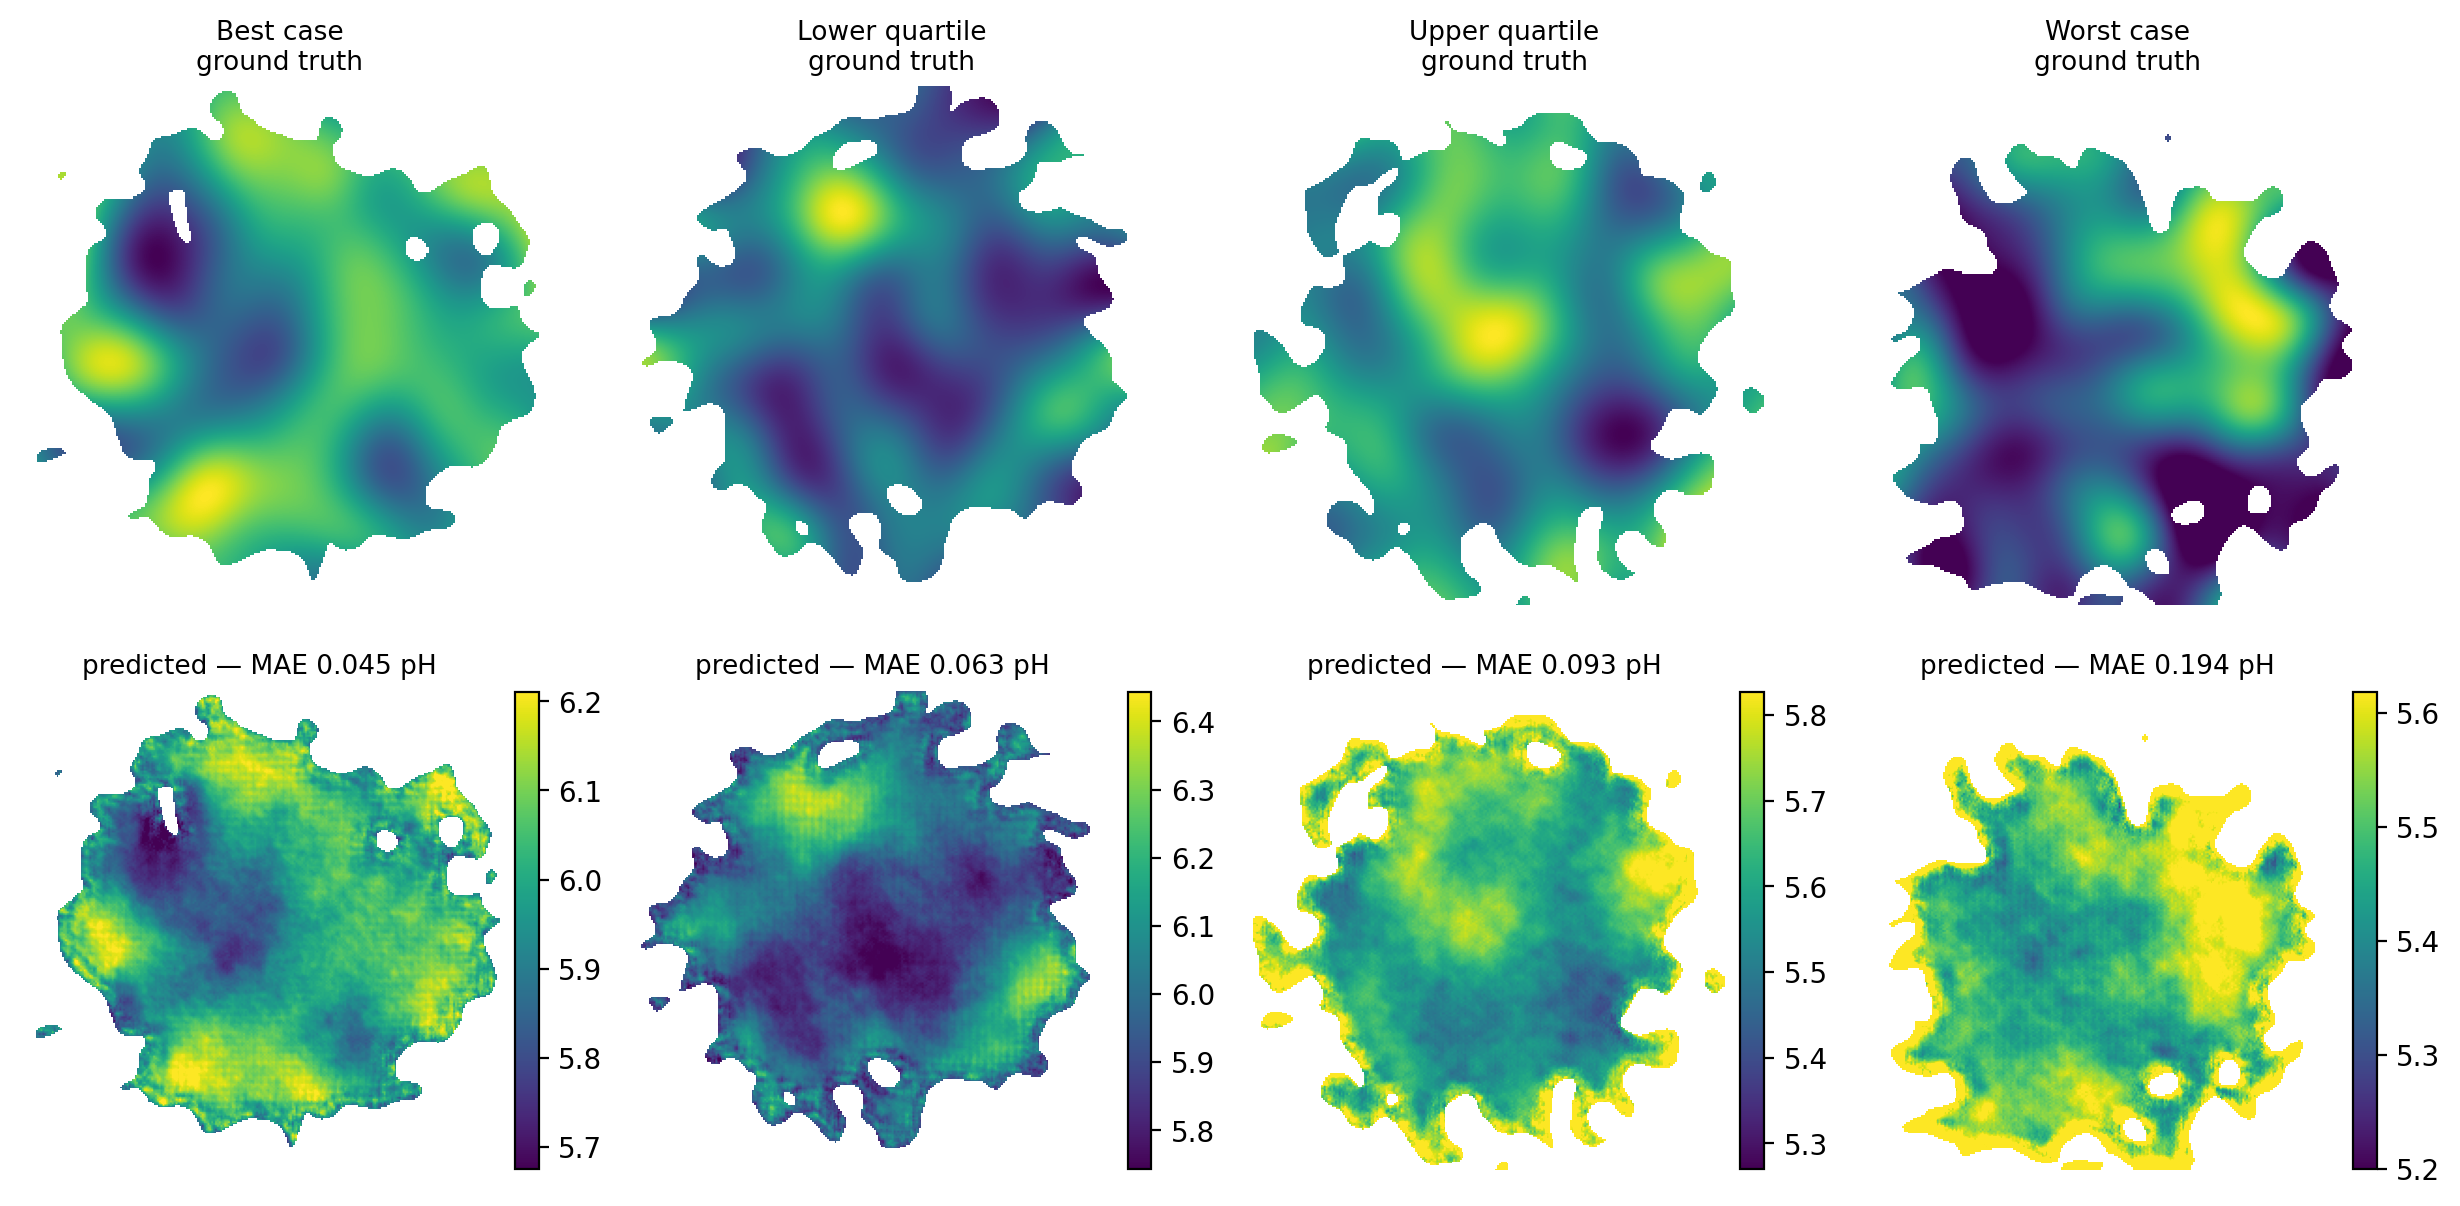
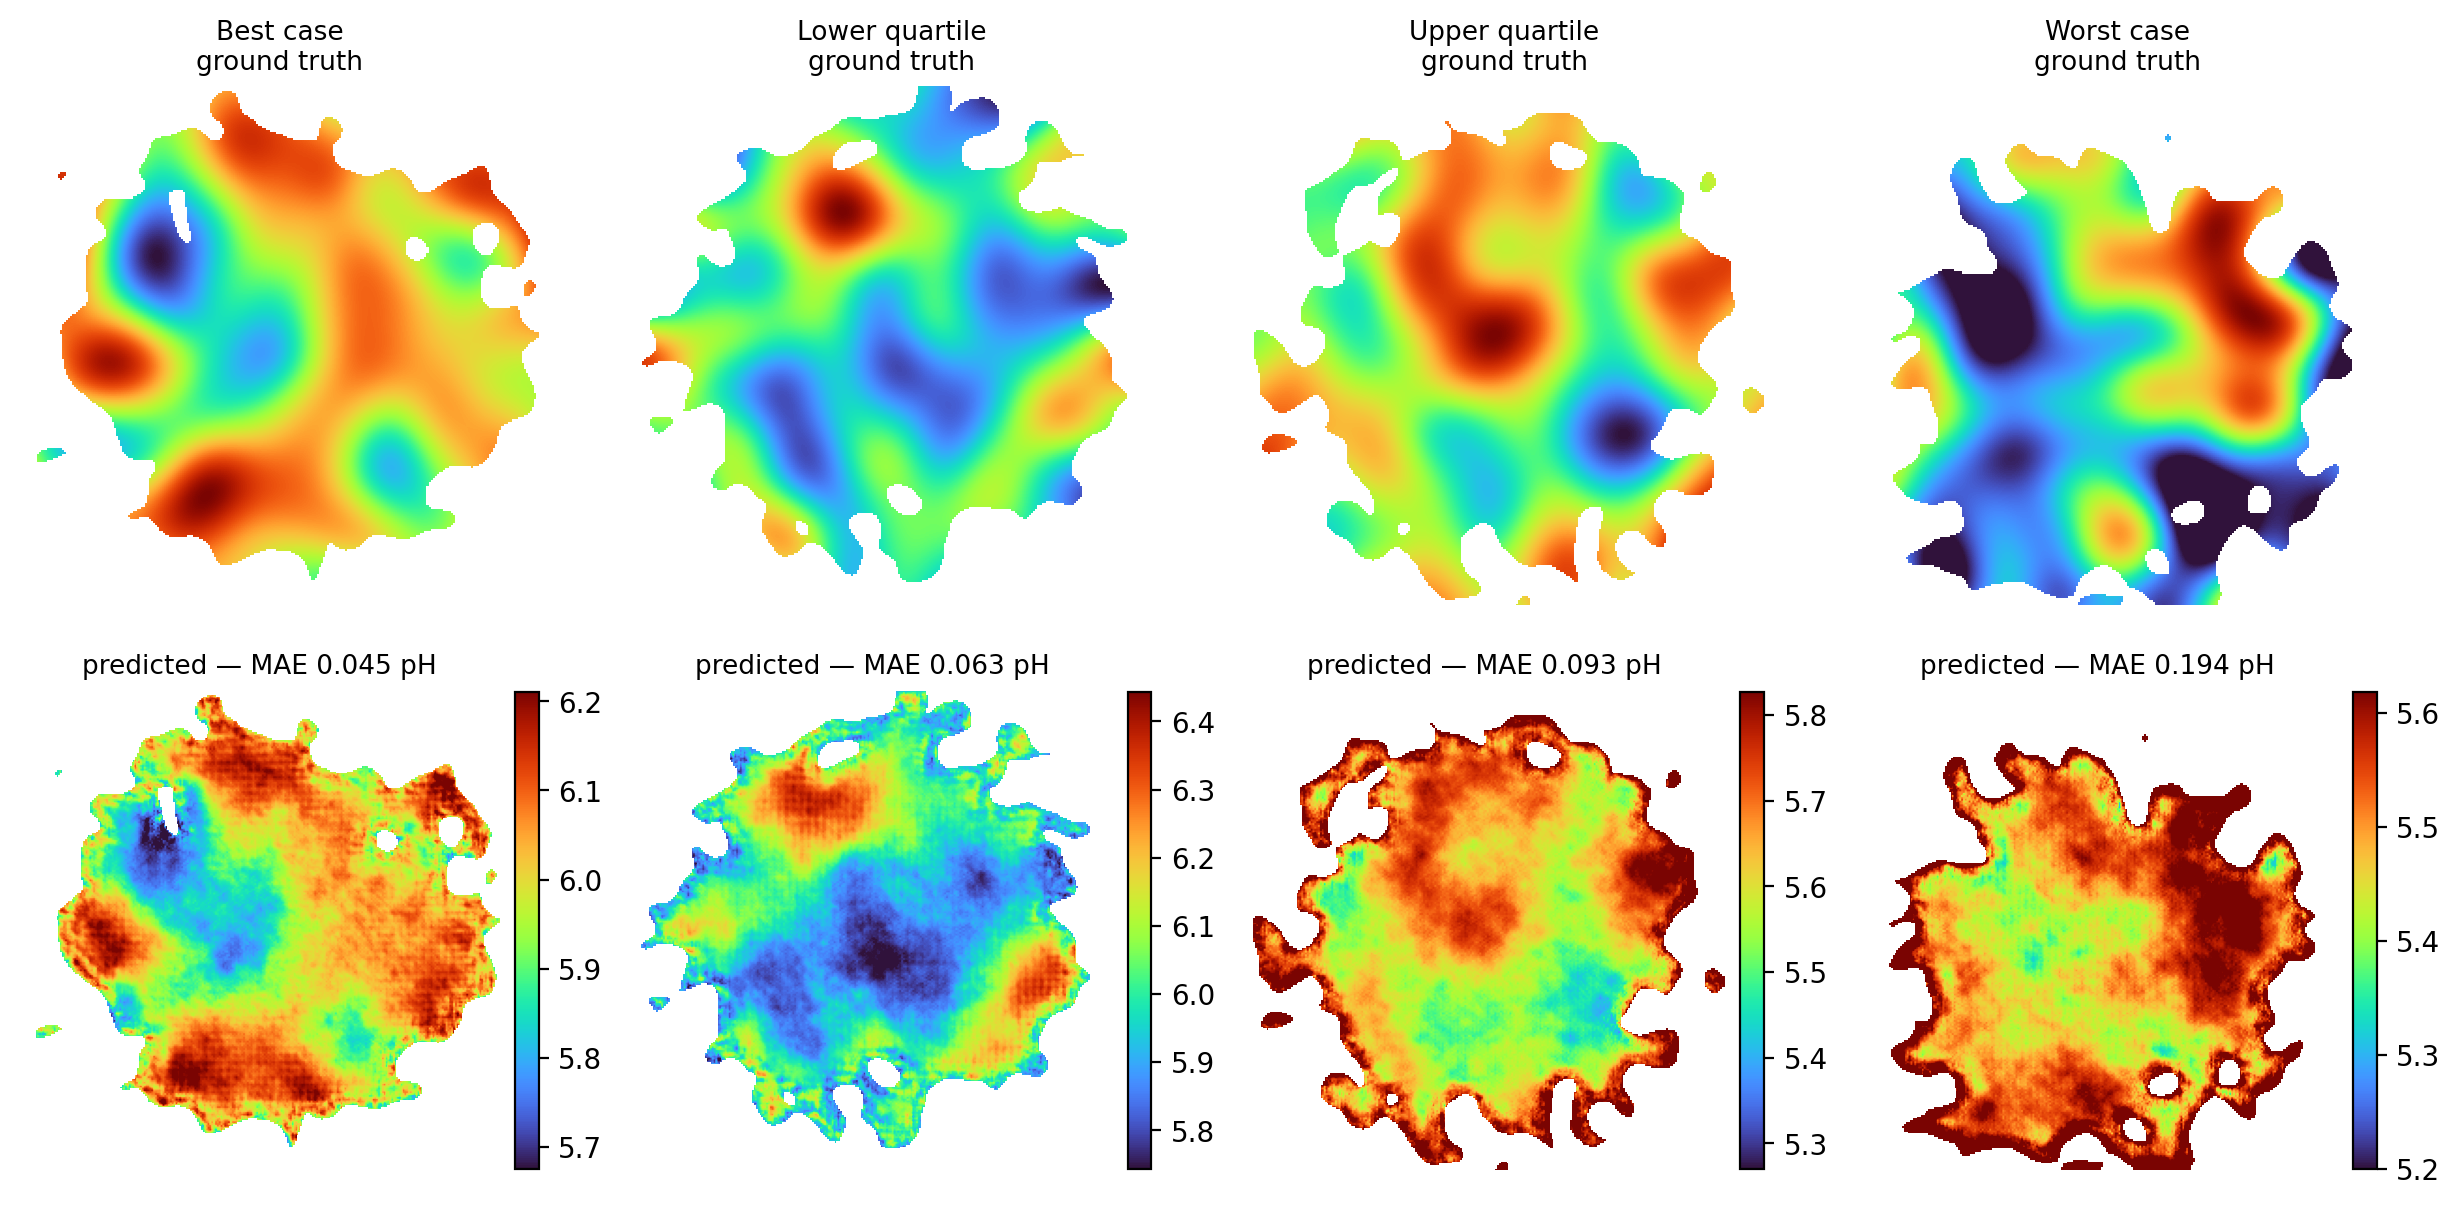
Revert the pH colormap to turbo
Author's call. The previous commit changed pH maps to viridis as part of a
general restyle; that was bundled in without being asked for, and the team
and panel have already seen the turbo version. Continuity wins over the
colormap argument.

|error| stays magma -- it was already sequential and was not part of the
request.

Affects the four figures that render a pH map: fig_dataset_sample,
fig_system_output, fig_prediction_gallery, fig_heatmap_example. No value,
selection rule, or caption changed.

diff --git a/make_figures.py b/make_figures.py
@@ -60,7 +60,8 @@ DPI = 200
 C_LIN = "#1F6F78"    # Linear regression  (teal)
 C_PLS = "#C9761A"    # PLSR               (orange)
 C_CRN = "#8C1D2E"    # CRN                (deep red -- the project's primary)
-CMAP_PH = "viridis"  # sequential, perceptually uniform, greyscale-safe
+CMAP_PH = "turbo"    # author's choice -- kept for continuity with the
+                     # figures the team and panel have already seen
 CMAP_ERR = "magma"   # sequential; dark = low error
 C_TRAIN = C_LIN      # training loss
 C_VAL = C_CRN        # validation loss
